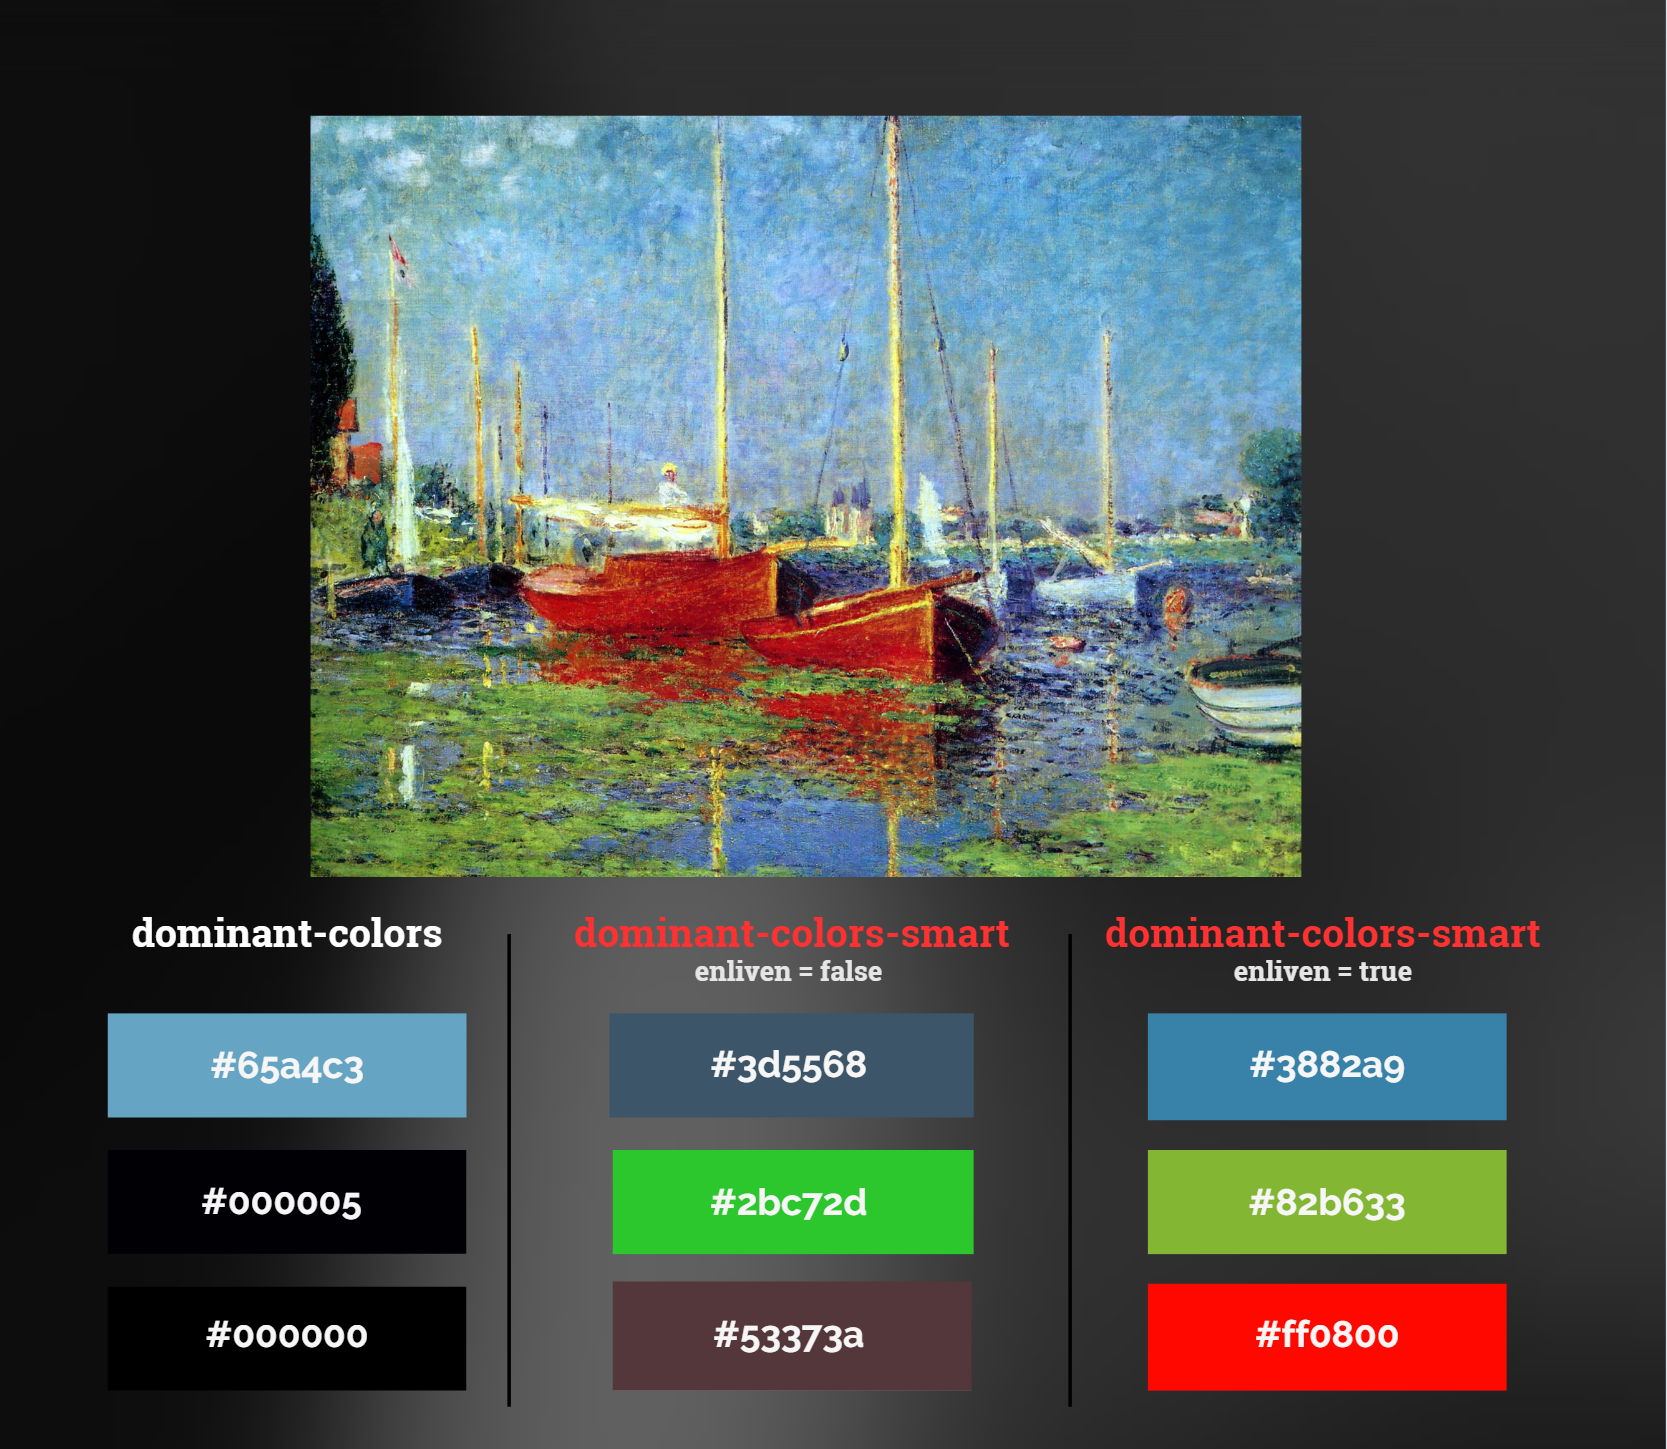
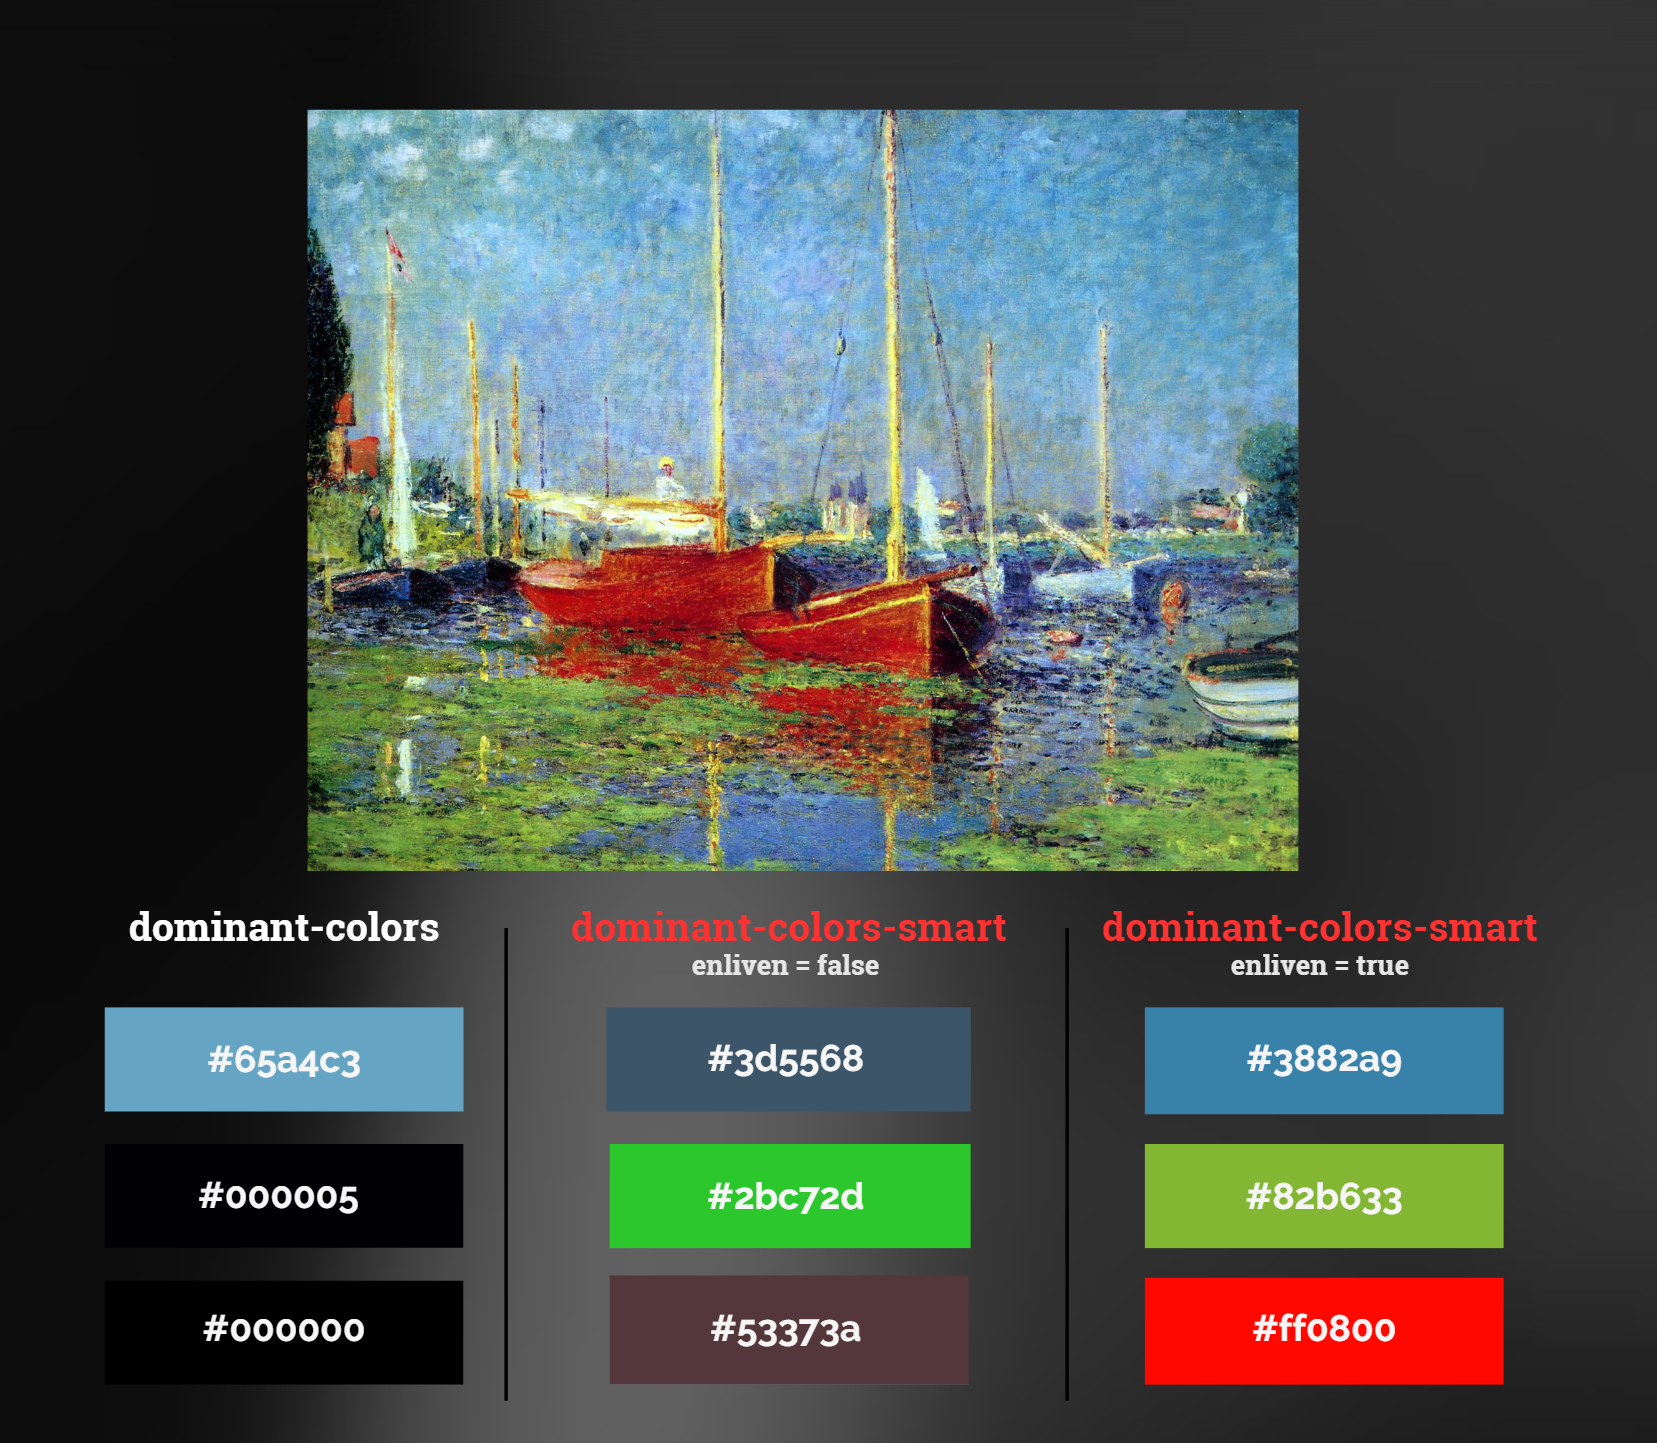
Correction of a minor crop problem on the readme image and addition of the readme.

diff --git a/README.md b/README.md
@@ -1,1 +1,24 @@
-# DominantColor
+# dominant-colors-smart
+
+#### A fast NodeJS library written in C++ to obtain the dominant colors of an image in a meaningful way to get usable results.
+
+---
+
+## The "meaningful way" for usable results
+
+What do I mean by "meaningful way for usable results" ?\
+To better understand, here's a comparison of the analysis of the image below by a fairly widely used library: dominant-colors versus the analysis of my library.
+
+![](readme_assets/compare.png?raw=true "Comparison of results between dominant-colors and this library")
+
+I'll explain how I do it later in this readme, but it's not rocket science.
+
+## How to use
+
+### Install
+
+`npm install dominant-colors-smart`
+
+### Usage
+
+...
